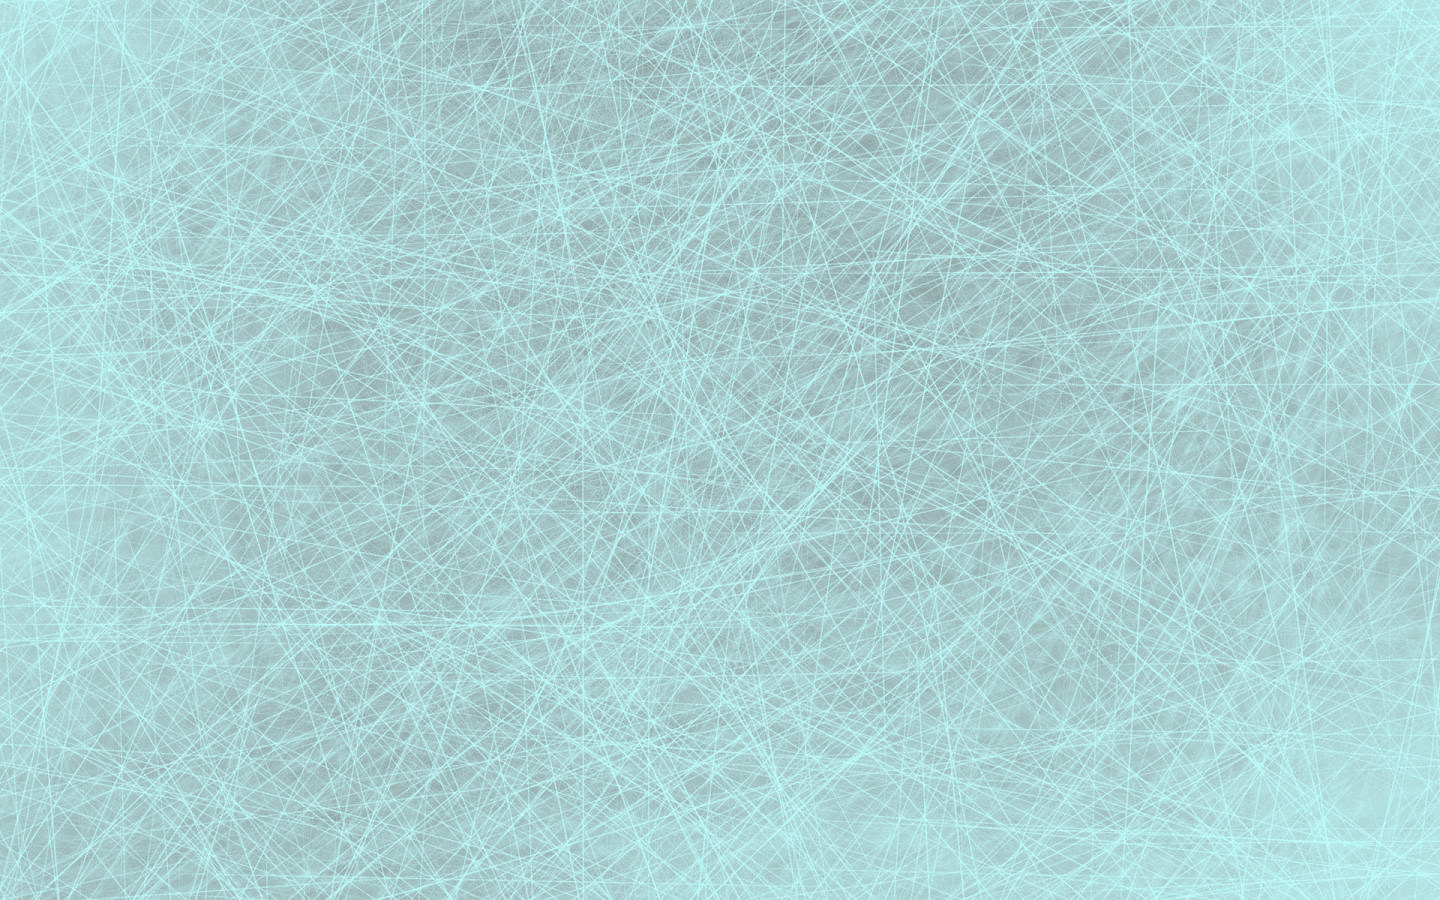
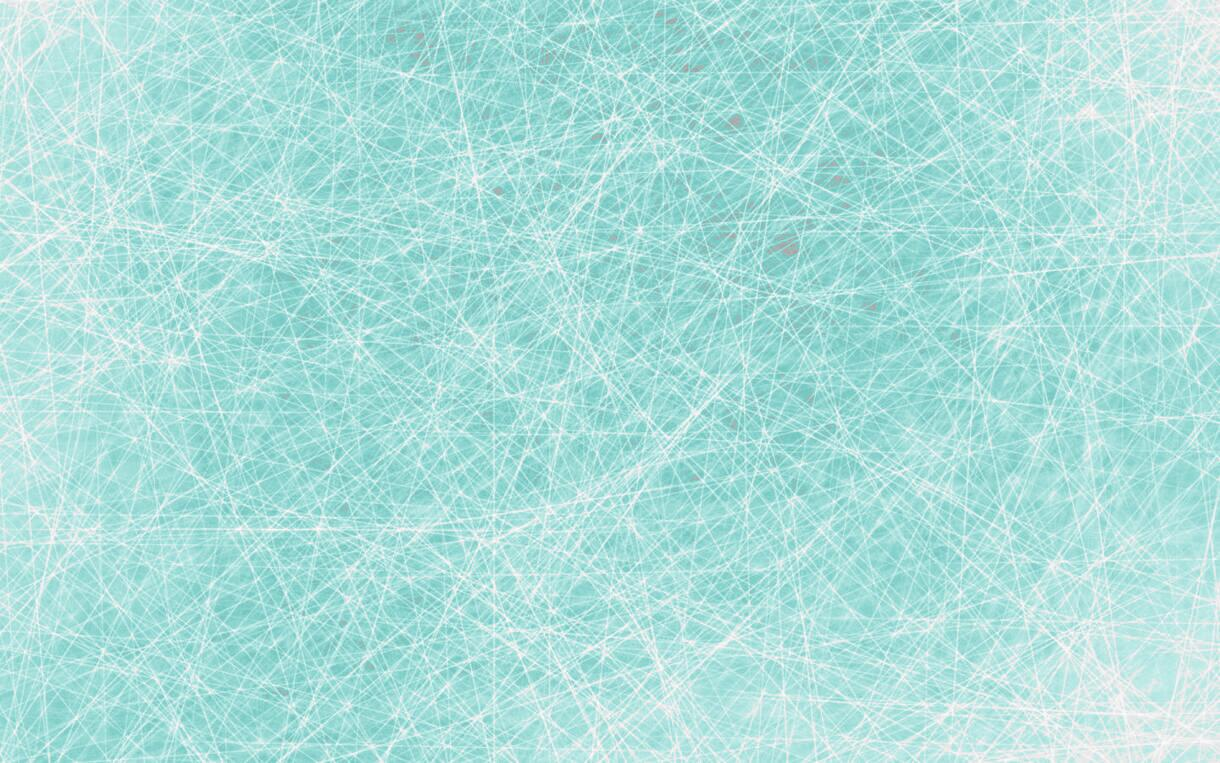
fdhdffh

diff --git a/style.css b/style.css
@@ -141,7 +141,7 @@ a:hover, a:focus {
     outline: none;
 }
 body {
-    background:url('img/slider/bg3.png');
+    background:url('img/slider/bg3.jpeg');
 	color: #444;
     font-family: 'Open Sans', sans-serif;
     font-size: 15px;
@@ -826,15 +826,15 @@ button#submit:hover {
    9.Reviews Area Css
 ----------------------------------------*/
 .testimonial-area{
-    background: url(img/background/bg3.png);
+    background: url(img/background/bg3.jpeg);
     position: relative;
 }
 .test-overly{
     position: absolute;
     background: linear-gradient(
-      #07d1f100, 
-      #07d1f100
-    ), url('img/slider/bg3.png');
+      #fcf8e3c4, 
+      #fcf8e3c4
+    ), url('img/slider/bg3.jpeg');
     top: 0;
     width: 100%;
     left: 0;
@@ -845,7 +845,7 @@ button#submit:hover {
   top: 0;
   left: 0;
   width: 100%; 
-  background-color:#07d1f100;
+  background-color:#fcf8e3c4;
 }
 .single-testi {
     padding: 30px 20px;
